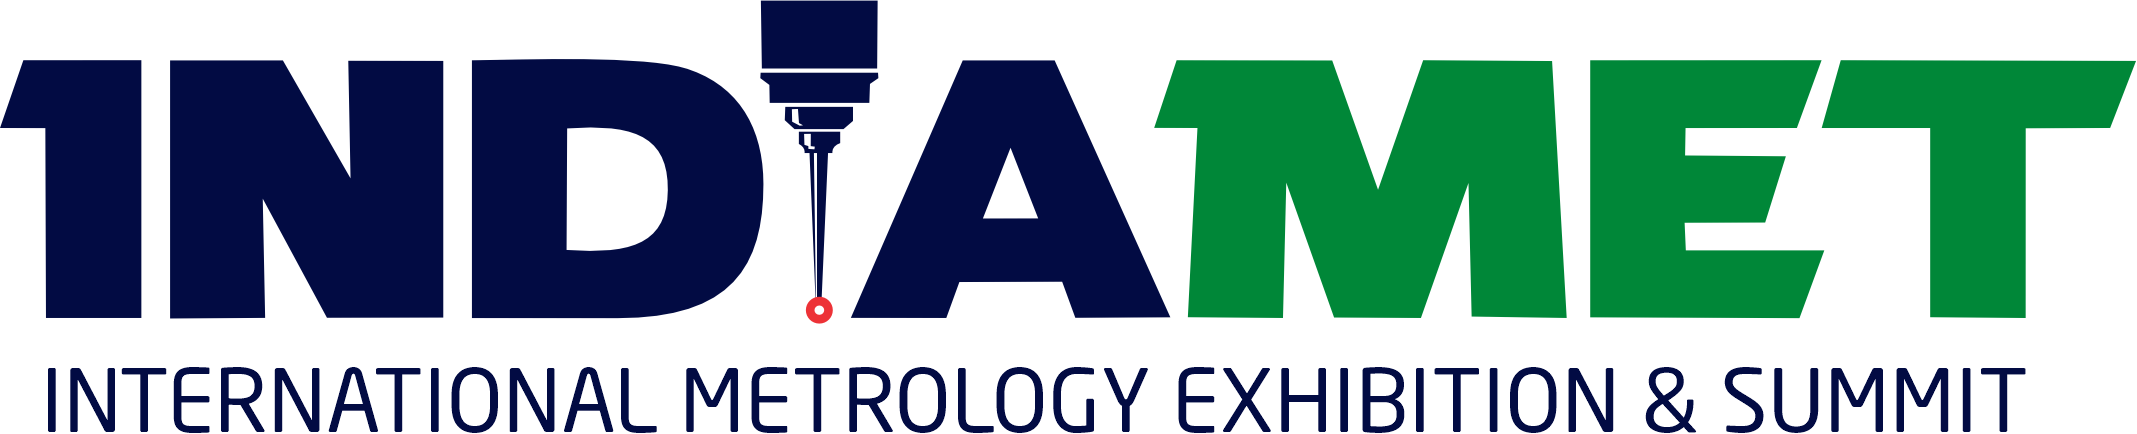
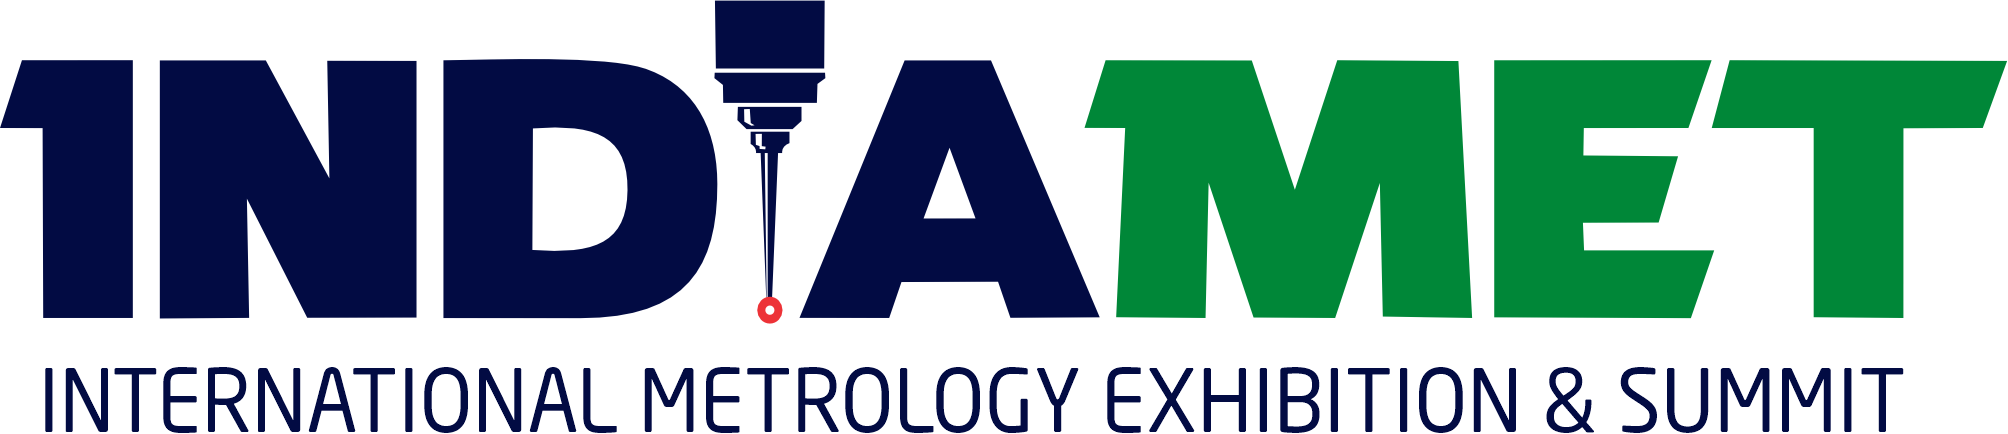
update

diff --git a/components/common/Navbar.tsx b/components/common/Navbar.tsx
@@ -124,7 +124,7 @@ export default function Navbar() {
 <div className="w-full bg-[#ffffff]">
   <Container className="flex flex-wrap items-end justify-between gap-x-4 gap-y-3 py-3.5">
     
-    <div className="flex min-w-0 items-center gap-3 xl:gap-4">
+    <div className="flex min-w-0 items-center gap-5 xl:gap-5">
 
       {/* Logo + Subtitle */}
 <div className="flex shrink-0 flex-col items-center">
@@ -132,7 +132,7 @@ export default function Navbar() {
     <img
       src="/ITS_logo_white.png"
       alt="IndiaMet Expo"
-      className="-mt-7 h-30 w-auto cursor-pointer object-contain sm:h-22"
+      className="-mt-0 h-30 w-auto cursor-pointer object-contain sm:h-20"
     />
   </UTMLink>
 
